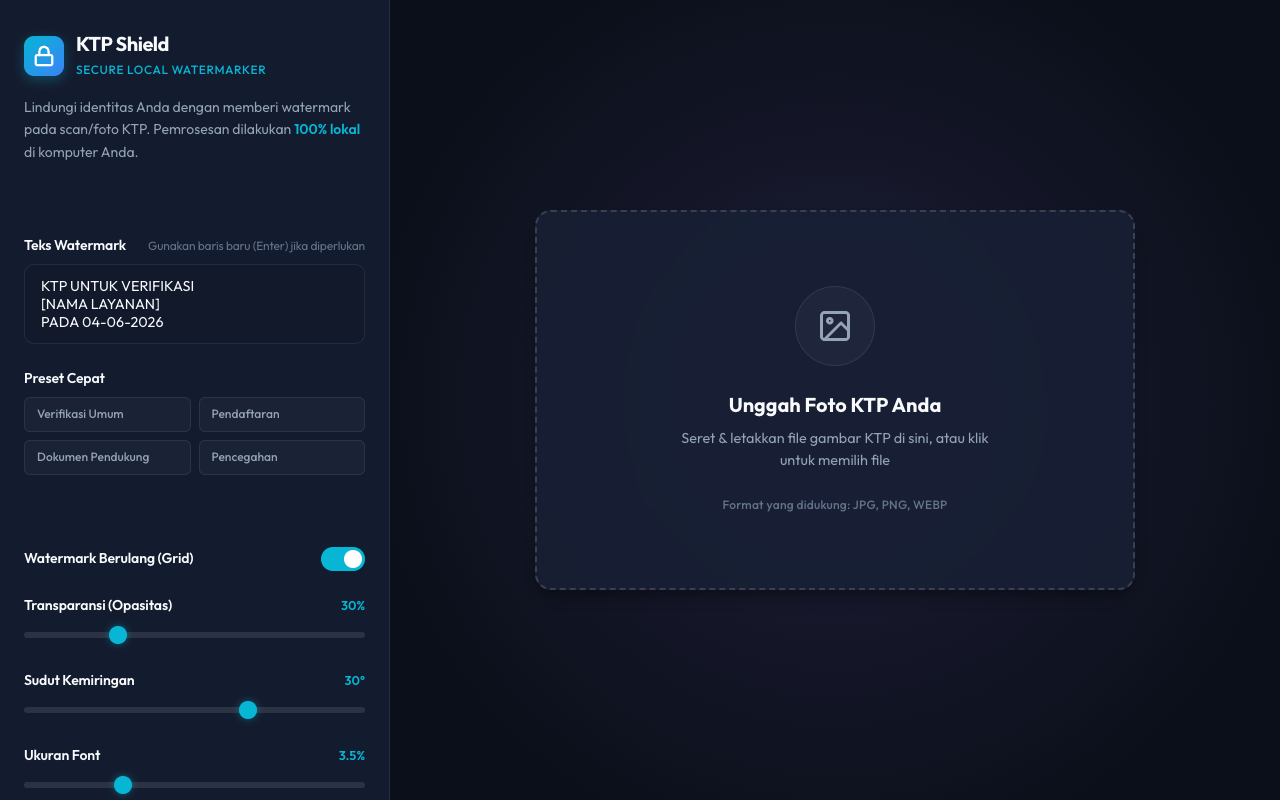
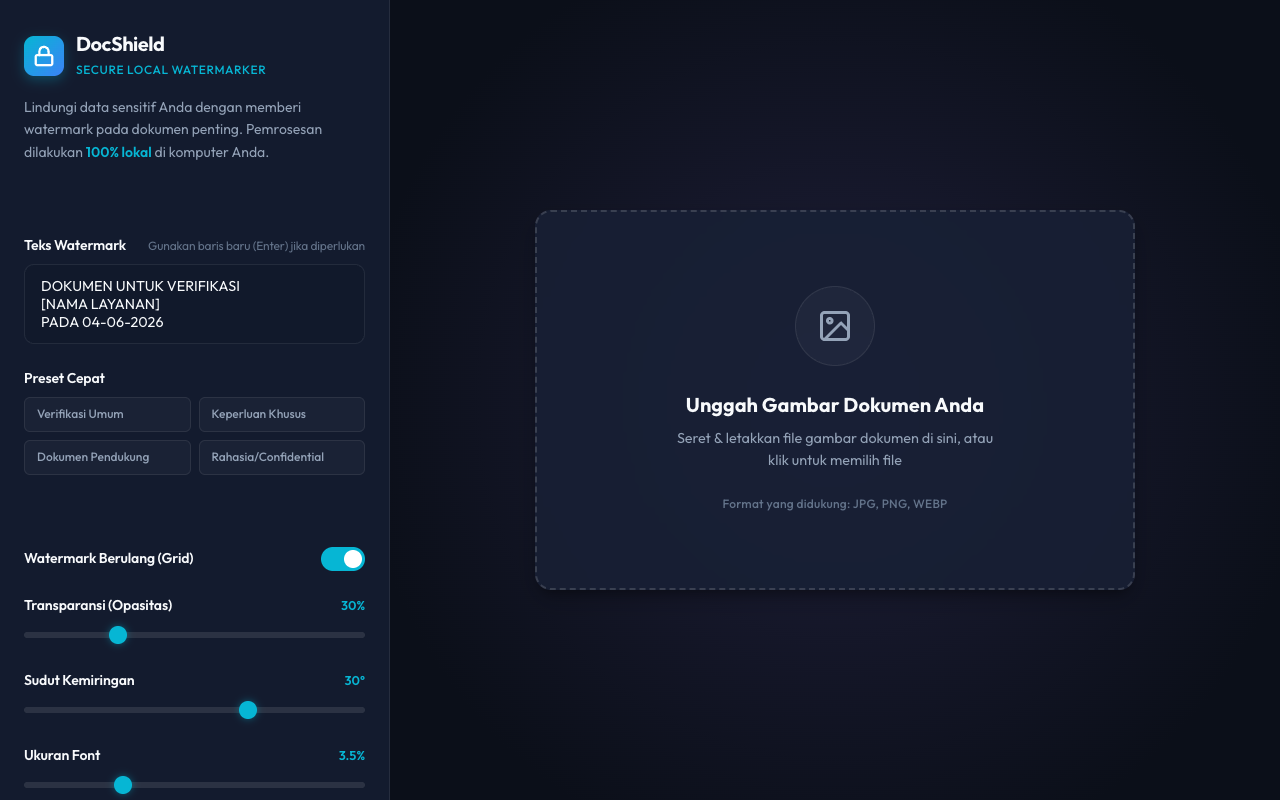
Generalize watermarking program to confidential documents

diff --git a/templates/index.html b/templates/index.html
@@ -3,8 +3,8 @@
 <head>
     <meta charset="UTF-8">
     <meta name="viewport" content="width=device-width, initial-scale=1.0">
-    <title>Secure KTP Watermarker - Beri Watermark KTP Secara Lokal & Aman</title>
-    <meta name="description" content="Aplikasi pembuat watermark KTP lokal untuk melindungi privasi data identitas Anda tanpa unggah ke internet.">
+    <title>Secure Document Watermarker - Beri Watermark Dokumen Secara Lokal & Aman</title>
+    <meta name="description" content="Aplikasi pembuat watermark dokumen lokal untuk melindungi privasi data sensitif Anda tanpa unggah ke internet.">
     <!-- Google Fonts -->
     <link rel="preconnect" href="https://fonts.googleapis.com">
     <link rel="preconnect" href="https://fonts.gstatic.com" crossorigin>
@@ -23,12 +23,12 @@
                     </svg>
                 </div>
                 <div class="brand-text">
-                    <h1>KTP Shield</h1>
+                    <h1>DocShield</h1>
                     <span>Secure Local Watermarker</span>
                 </div>
             </div>
             
-            <p class="description">Lindungi identitas Anda dengan memberi watermark pada scan/foto KTP. Pemrosesan dilakukan <strong>100% lokal</strong> di komputer Anda.</p>
+            <p class="description">Lindungi data sensitif Anda dengan memberi watermark pada dokumen penting. Pemrosesan dilakukan <strong>100% lokal</strong> di komputer Anda.</p>
             
             <hr class="separator">
 
@@ -43,10 +43,10 @@
             <div class="control-group">
                 <label>Preset Cepat</label>
                 <div class="presets-grid">
-                    <button type="button" class="btn-preset" data-template="KTP UNTUK VERIFIKASI\n[NAMA LAYANAN]\nPADA {date}">Verifikasi Umum</button>
-                    <button type="button" class="btn-preset" data-template="HANYA UNTUK VERIFIKASI\nPENDAFTARAN [NAMA LAYANAN]">Pendaftaran</button>
-                    <button type="button" class="btn-preset" data-template="DOKUMEN PENDUKUNG\nAplikasi [NAMA LAYANAN] - {date}">Dokumen Pendukung</button>
-                    <button type="button" class="btn-preset" data-template="TIDAK UNTUK DISALAHGUNAKAN\nHanya untuk Keperluan [NAMA]">Pencegahan</button>
+                    <button type="button" class="btn-preset" data-template="DOKUMEN UNTUK VERIFIKASI\n[NAMA LAYANAN]\nPADA {date}">Verifikasi Umum</button>
+                    <button type="button" class="btn-preset" data-template="HANYA UNTUK KEPERLUAN\n[NAMA LAYANAN]\nPADA {date}">Keperluan Khusus</button>
+                    <button type="button" class="btn-preset" data-template="SALINAN DOKUMEN PENDUKUNG\n[NAMA LAYANAN] - {date}">Dokumen Pendukung</button>
+                    <button type="button" class="btn-preset" data-template="RAHASIA & KONFIDENSIAL\nTIDAK UNTUK DISALAHGUNAKAN">Rahasia/Confidential</button>
                 </div>
             </div>
 
@@ -106,7 +106,7 @@
                     <polyline points="7 10 12 15 17 10"></polyline>
                     <line x1="12" y1="15" x2="12" y2="3"></line>
                 </svg>
-                Unduh Gambar KTP
+                Unduh Gambar Dokumen
             </button>
         </aside>
 
@@ -123,8 +123,8 @@
                             <polyline points="21 15 16 10 5 21"></polyline>
                         </svg>
                     </div>
-                    <h2>Unggah Foto KTP Anda</h2>
-                    <p>Seret & letakkan file gambar KTP di sini, atau klik untuk memilih file</p>
+                    <h2>Unggah Gambar Dokumen Anda</h2>
+                    <p>Seret & letakkan file gambar dokumen di sini, atau klik untuk memilih file</p>
                     <span class="upload-note">Format yang didukung: JPG, PNG, WEBP</span>
                 </div>
             </div>
@@ -146,7 +146,7 @@
                         <p>Memproses gambar...</p>
                     </div>
                     <div class="image-container">
-                        <img id="preview-image" alt="Pratinjau Watermark KTP">
+                        <img id="preview-image" alt="Pratinjau Watermark Dokumen">
                     </div>
                 </div>
             </div>

diff --git a/static/script.js b/static/script.js
@@ -40,7 +40,7 @@ document.addEventListener('DOMContentLoaded', () => {
     const formattedDate = `${dd}-${mm}-${yyyy}`;
     
     // Set default text area value dengan tanggal hari ini
-    const defaultText = `KTP UNTUK VERIFIKASI\n[NAMA LAYANAN]\nPADA ${formattedDate}`;
+    const defaultText = `DOKUMEN UNTUK VERIFIKASI\n[NAMA LAYANAN]\nPADA ${formattedDate}`;
     watermarkText.value = defaultText;
     
     // ----------------------------------------------------

diff --git a/generate_dummy.py b/generate_dummy.py
@@ -1,51 +1,63 @@
 #!/usr/bin/env python3
 from PIL import Image, ImageDraw
 
-def create_dummy_ktp(output_path="dummy_ktp.png"):
-    # Rasio standard KTP (CR80): 856 x 540 piksel
-    width, height = 856, 540
+def create_dummy_document(output_path="dummy_document.png"):
+    # Rasio standard kertas A4: 800 x 1130 piksel
+    width, height = 800, 1130
     
-    # Buat latar belakang biru khas KTP Indonesia
-    img = Image.new("RGB", (width, height), "#3a6073")
+    # Buat latar belakang kertas putih/krem
+    img = Image.new("RGB", (width, height), "#fafafa")
     draw = ImageDraw.Draw(img)
     
-    # Tambahkan pola/border luar sederhana
-    draw.rectangle([(15, 15), (width - 15, height - 15)], outline="#203a43", width=4)
+    # Tambahkan margin/border halaman
+    draw.rectangle([(20, 20), (width - 20, height - 20)], outline="#e2e8f0", width=2)
+    draw.rectangle([(40, 40), (width - 40, height - 40)], outline="#cbd5e1", width=1)
     
-    # Teks header
-    draw.text((300, 30), "PROVINSI DKI JAKARTA", fill="#ffffff")
-    draw.text((290, 45), "JAKARTA SELATAN", fill="#ffffff")
+    # Header Dokumen
+    draw.text((280, 80), "SURAT PERJANJIAN KERJASAMA", fill="#0f172a")
+    draw.text((340, 100), "KATEGORI: RAHASIA", fill="#ef4444")
+    draw.text((320, 120), "No. SPK: 2026/SEC/004", fill="#64748b")
     
-    # NIK
-    draw.text((40, 90), "NIK       : 3171234567890001", fill="#ffffff")
+    # Garis pembatas header
+    draw.line([(60, 150), (740, 150)], fill="#94a3b8", width=2)
     
-    # Data Diri Mock
-    labels = [
-        "Nama      : BUDI SANTOSO",
-        "Tgl Lahir : JAKARTA, 01-01-1990",
-        "Jenis Klm : LAKI-LAKI",
-        "Alamat    : JL. MERDEKA NO. 10",
-        "Agama     : ISLAM",
-        "Status    : KAWIN",
-        "Pekerjaan : KARYAWAN SWASTA",
-        "Kewarganegaraan: WNI",
-    ]
+    # Paragraph 1
+    p1 = (
+        "Yang bertanda tangan di bawah ini menerangkan bahwa dokumen ini bersifat rahasia\n"
+        "dan hanya dipergunakan untuk keperluan evaluasi internal. Segala bentuk penyalinan,\n"
+        "penyebarluasan, atau penyalahgunaan data tanpa persetujuan tertulis merupakan\n"
+        "pelanggaran hukum yang serius."
+    )
+    draw.text((60, 180), p1, fill="#1e293b", spacing=6)
     
-    y = 130
-    for label in labels:
-        draw.text((40, y), label, fill="#ffffff")
-        y += 25
-        
-    # Kotak untuk area foto (di sebelah kanan)
-    draw.rectangle([(620, 130), (800, 370)], outline="#ffffff", width=2, fill="#4e54c8")
-    draw.text((660, 240), "MOCK FOTO", fill="#ffffff")
+    # Subheading
+    draw.text((60, 280), "PASAL 1 - KERAHASIAAN INFORMASI", fill="#0f172a")
     
-    # Kotak tanda tangan
-    draw.rectangle([(620, 390), (800, 480)], outline="#ffffff", width=1, fill="#ffffff")
-    draw.text((650, 430), "TANDA TANGAN", fill="#000000")
+    # Paragraph 2
+    p2 = (
+        "1. Informasi Rahasia mencakup namun tidak terbatas pada: data pengguna, informasi\n"
+        "   keuangan perusahaan, rencana bisnis, kode sumber (source code), dan kekayaan\n"
+        "   intelektual lainnya.\n\n"
+        "2. Pihak penerima berkewajiban menjaga kerahasiaan dokumen ini dan tidak boleh\n"
+        "   membagikannya kepada pihak ketiga tanpa izin resmi."
+    )
+    draw.text((60, 310), p2, fill="#1e293b", spacing=6)
+    
+    # Kotak Tanda Tangan
+    draw.text((100, 850), "Pihak Pertama,", fill="#1e293b")
+    draw.line([(100, 960), (280, 960)], fill="#94a3b8", width=1)
+    draw.text((100, 970), "BUDI SANTOSO\nDirektur Utama", fill="#64748b")
+    
+    draw.text((500, 850), "Pihak Kedua,", fill="#1e293b")
+    draw.line([(500, 960), (680, 960)], fill="#94a3b8", width=1)
+    draw.text((500, 970), "ANI SETIAWATI\nMitra Bisnis", fill="#64748b")
+    
+    # Stamp / Cap Mock (merah melingkar di tengah tanda tangan)
+    draw.ellipse([(140, 880), (220, 940)], outline="#ef4444", width=2)
+    draw.text((155, 905), "CONFIDENTIAL", fill="#ef4444")
     
     img.save(output_path)
-    print(f"Dummy KTP berhasil dibuat di: {output_path}")
+    print(f"Dummy Document berhasil dibuat di: {output_path}")
 
 if __name__ == "__main__":
-    create_dummy_ktp()
+    create_dummy_document()

diff --git a/watermarker.py b/watermarker.py
@@ -55,7 +55,7 @@ def add_watermark(
     color_hex="#ffffff" # Warna teks (Hex)
 ):
     """
-    Menambahkan watermark teks ke gambar KTP secara lokal.
+    Menambahkan watermark teks ke gambar dokumen konfidensial secara lokal.
     """
     # Membuka gambar dasar
     if isinstance(image_path, str):
@@ -201,11 +201,11 @@ def add_watermark(
 
 if __name__ == "__main__":
     today_str = datetime.today().strftime("%d-%m-%Y")
-    default_text = f"KTP UNTUK VERIFIKASI\n[NAMA LAYANAN]\nPADA {today_str}"
+    default_text = f"DOKUMEN UNTUK VERIFIKASI\n[NAMA LAYANAN]\nPADA {today_str}"
     
-    parser = argparse.ArgumentParser(description="Program Python Watermark KTP Secara Lokal & Aman")
-    parser.add_argument("-i", "--input", required=True, help="Path file gambar KTP input")
-    parser.add_argument("-o", "--output", required=True, help="Path file gambar KTP hasil output")
+    parser = argparse.ArgumentParser(description="Program Python Watermark Dokumen Secara Lokal & Aman")
+    parser.add_argument("-i", "--input", required=True, help="Path file gambar dokumen input")
+    parser.add_argument("-o", "--output", required=True, help="Path file gambar dokumen hasil output")
     parser.add_argument("-t", "--text", default=default_text, help="Teks watermark (gunakan '\\n' untuk baris baru)")
     parser.add_argument("-op", "--opacity", type=int, default=30, help="Opasitas watermark (0-100, default: 30)")
     parser.add_argument("-a", "--angle", type=int, default=30, help="Sudut rotasi watermark (derajat, default: 30)")

diff --git a/app.py b/app.py
@@ -6,7 +6,7 @@ from fastapi.staticfiles import StaticFiles
 from fastapi.middleware.cors import CORSMiddleware
 from watermarker import add_watermark
 
-app = FastAPI(title="Local KTP Watermark Server")
+app = FastAPI(title="Local Document Watermark Server")
 
 # Izinkan CORS jika ada kebutuhan integrasi
 app.add_middleware(

diff --git a/README.md b/README.md
@@ -1,15 +1,15 @@
-# KTP Shield - Secure Local Watermarker
+# DocShield - Secure Local Document Watermarker
 
 ![Dashboard Screenshot](dashboard.png)
 
-Aplikasi Python sederhana, aman, dan 100% lokal untuk memberikan watermark pada scan/foto KTP (Kartu Tanda Penduduk) guna melindungi data pribadi Anda dari penyalahgunaan. Semua proses dilakukan di komputer Anda tanpa mengunggah file ke internet.
+Aplikasi Python sederhana, aman, dan 100% lokal untuk memberikan watermark pada berkas gambar dokumen sensitif/konfidensial (seperti KTP, kontrak, laporan keuangan, sertifikat, dll.) guna melindungi data pribadi Anda dari penyalahgunaan. Semua proses dilakukan di komputer Anda tanpa mengunggah file ke internet.
 
 ## Fitur Utama
 
-- **100% Lokal**: File KTP Anda tidak pernah dikirim ke internet, diproses sepenuhnya menggunakan pustaka Pillow Python.
+- **100% Lokal**: File dokumen Anda tidak pernah dikirim ke internet, diproses sepenuhnya menggunakan pustaka Pillow Python.
 - **Pola Grid (Tiling)**: Memberikan watermark berulang agar tidak mudah diedit atau dihapus oleh pihak tidak bertanggung jawab.
 - **Pengaturan Lengkap**: Ubah teks kustom, opasitas (transparansi), ukuran font dinamis, rotasi sudut, warna hex, dan kerapatan watermark.
-- **Preset Verifikasi Cepat**: Pilihan template watermark umum (seperti untuk Shopee, bank, dll.) dengan tanggal otomatis.
+- **Preset Verifikasi Cepat**: Pilihan template watermark umum (seperti verifikasi layanan, keperluan khusus, dll.) dengan tanggal otomatis.
 - **Dua Antarmuka**: Tersedia versi **Command Line Interface (CLI)** dan **Aplikasi Web (FastAPI)** yang cantik.
 
 ---
@@ -37,24 +37,24 @@ Aplikasi web menyediakan antarmuka grafis yang ramah pengguna dengan live previe
    ```
 2. Buka browser Anda dan akses:
    [http://127.0.0.1:8000](http://127.0.0.1:8000)
-3. Drag & drop foto KTP Anda (atau gunakan file `dummy_ktp.png` yang sudah disediakan untuk uji coba).
+3. Drag & drop foto/scan dokumen Anda (atau gunakan file `dummy_document.png` yang disediakan untuk uji coba).
 4. Sesuaikan teks, transparansi, ukuran, warna, dan sudut.
-5. Klik **Unduh Gambar KTP** untuk menyimpan hasilnya.
+5. Klik **Unduh Gambar Dokumen** untuk menyimpan hasilnya.
 
 ### 2. Command Line Interface (CLI)
 
 Untuk memproses cepat melalui terminal:
 
 ```bash
-# Menambahkan watermark default ke dummy KTP
-python watermarker.py -i dummy_ktp.png -o KTP_Watermarked.png
+# Menambahkan watermark default ke dummy document
+python watermarker.py -i dummy_document.png -o document_watermarked.png
 
-# Menambahkan watermark kustom dengan opasitas 30% dan rotasi 45 derajat
-python watermarker.py -i dummy_ktp.png -o KTP_Watermarked.png -t "HANYA UNTUK VERIFIKASI SEBAYA\nPADA 04-06-2026" -op 30 -a 45
+# Menambahkan watermark kustom dengan opasitas 25% dan rotasi 45 derajat
+python watermarker.py -i dummy_document.png -o document_watermarked.png -t "RAHASIA & KONFIDENSIAL\nHANYA UNTUK VERIFIKASI SEBAYA" -op 25 -a 45
 ```
 
 #### Opsi Parameter CLI:
-- `-i`, `--input`: Path gambar KTP asal (Wajib)
+- `-i`, `--input`: Path gambar dokumen asal (Wajib)
 - `-o`, `--output`: Path untuk menyimpan gambar hasil watermark (Wajib)
 - `-t`, `--text`: Teks watermark (gunakan `\n` untuk baris baru)
 - `-op`, `--opacity`: Transparansi watermark (0 - 100, default: 30)
@@ -67,8 +67,8 @@ python watermarker.py -i dummy_ktp.png -o KTP_Watermarked.png -t "HANYA UNTUK VE
 ---
 
 ## Contoh File untuk Uji Coba
-Kami menyediakan skrip untuk membuat gambar KTP dummy kosong (tanpa data sensitif asli Anda) agar Anda bisa langsung mencoba fitur aplikasi:
+Kami menyediakan skrip untuk membuat gambar dokumen dummy kosong (tanpa data sensitif asli Anda) agar Anda bisa langsung mencoba fitur aplikasi:
 ```bash
 python generate_dummy.py
 ```
-Perintah di atas akan menghasilkan berkas `dummy_ktp.png`.
+Perintah di atas akan menghasilkan berkas `dummy_document.png`.
